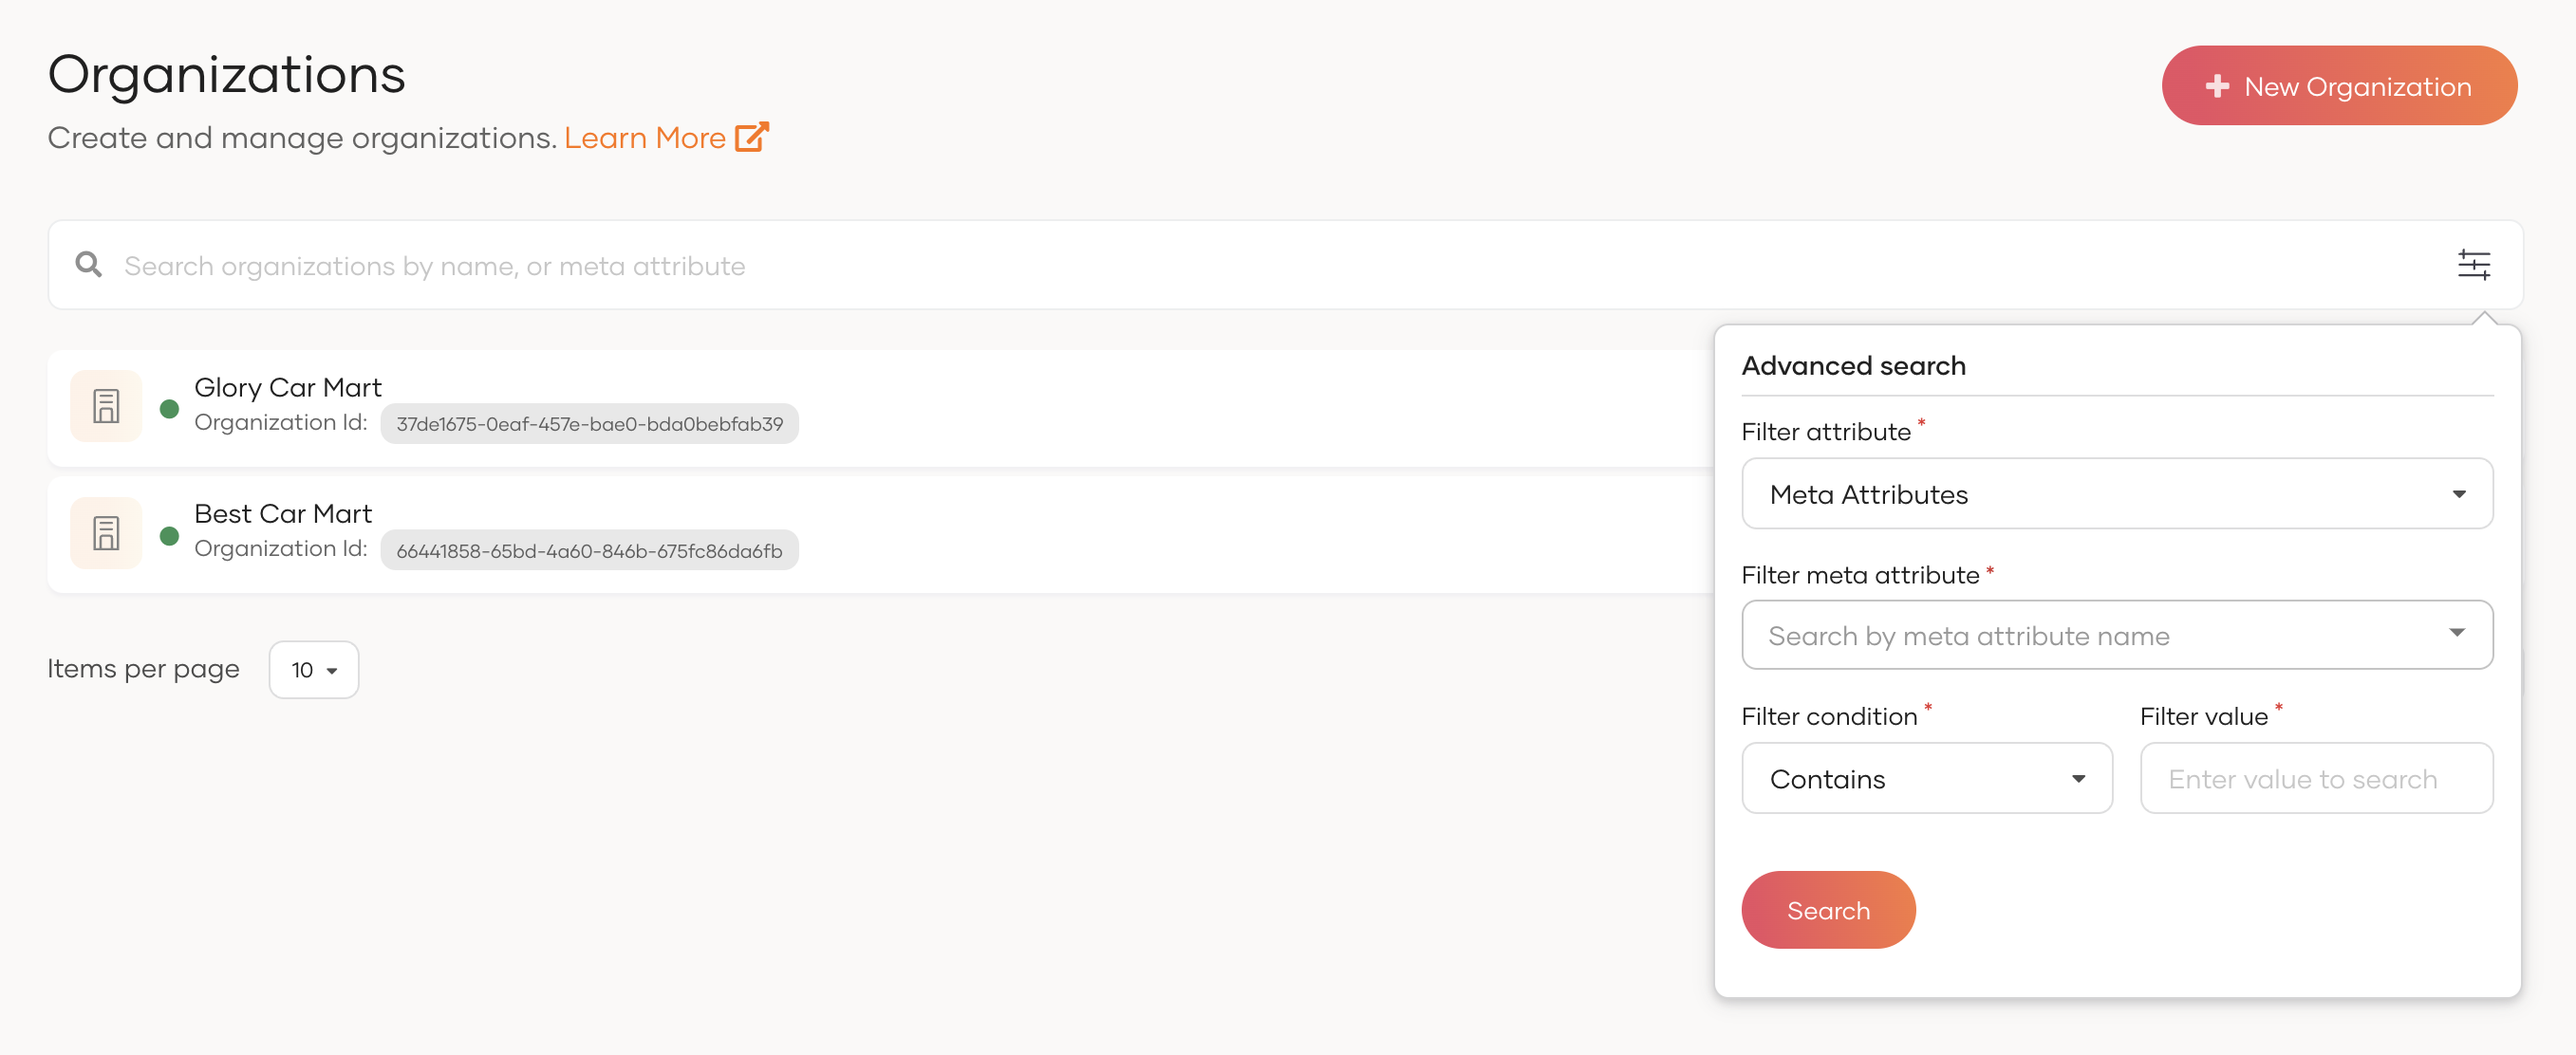
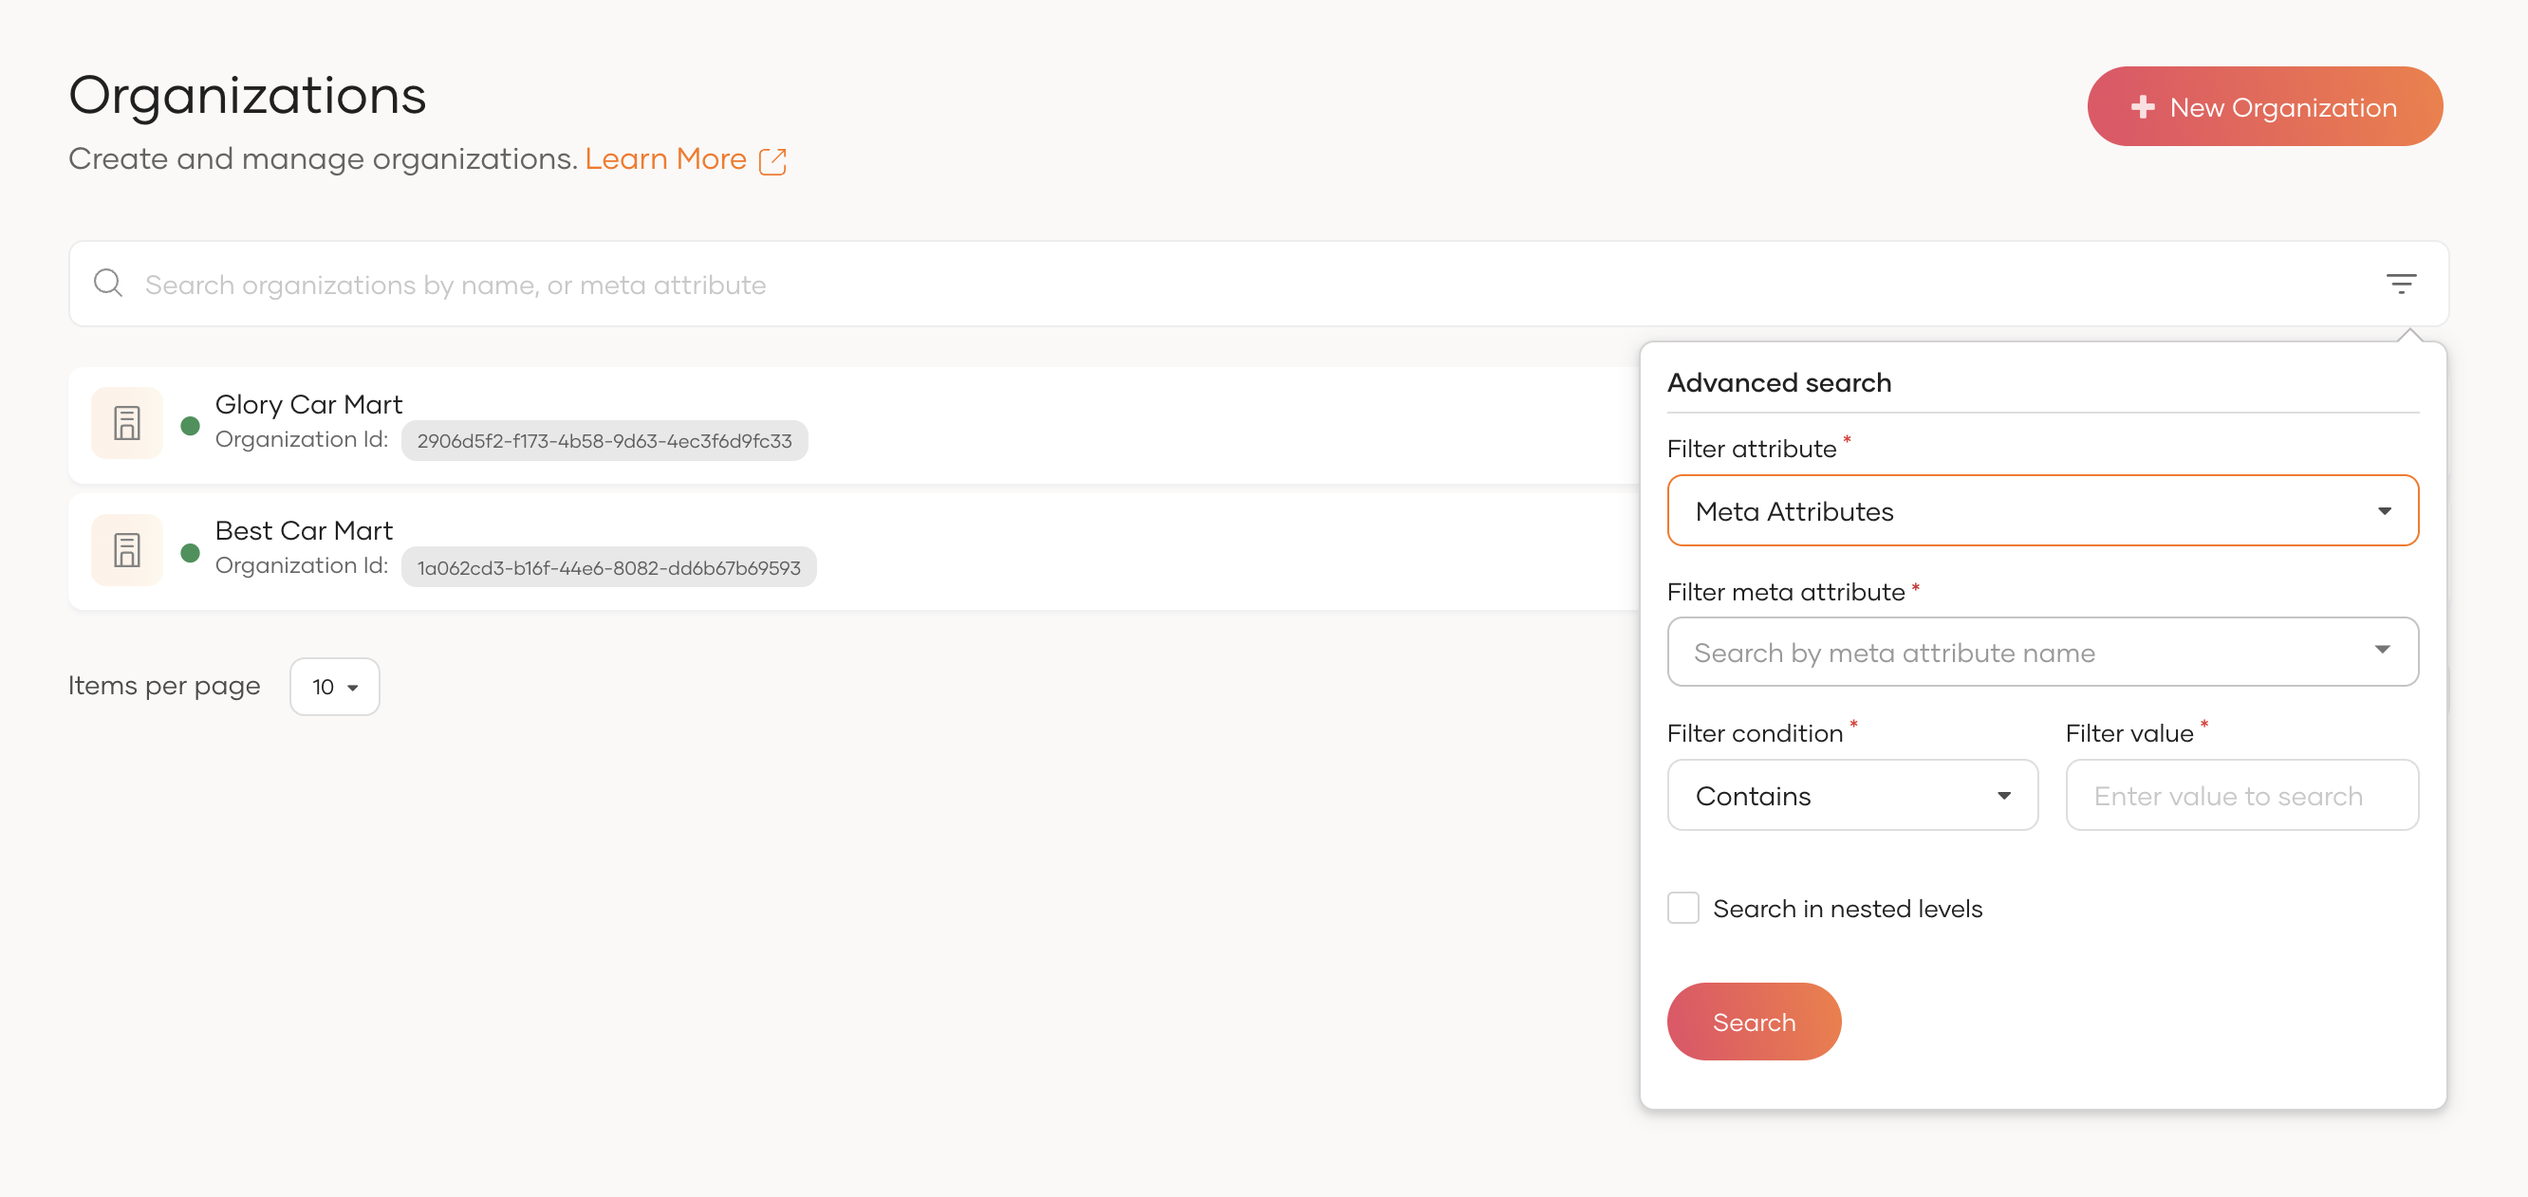
add nested level organization search doc

diff --git a/en/includes/guides/organization-management/organization-advance-search.md b/en/includes/guides/organization-management/organization-advance-search.md
@@ -8,6 +8,15 @@ There are two ways to search for an organization:
 
     ![organizations]({{base_path}}/assets/img/guides/organization/manage-organizations/organization-advance-search-dropdown.png){: width="700" style="display: block; margin: 0; border: 0.3px solid lightgrey;"}
 
+   {% if product_name == "Asgardeo" or (product_name == "WSO2 Identity Server" and is_version > "7.1.0" ) %}
+   
+      By checking the **Search in nested levels** checkbox in the Advanced Search Dropdown, you can search for an organization in the nested levels instead of just the immediate level organizations.
+   
+      Clicking on the search result allows you to view the exact path where the organization exists.
+   
+      ![nested-level-organization-search]({{base_path}}/assets/img/guides/organization/manage-organizations/organization-nested-level-search.png){: width="700" style="display: block; margin: 0; border: 0.3px solid lightgrey;"}
+   {% endif %}
+
 2. Using the **Search Bar**.
 
     You can type the search query directly into the search bar.
